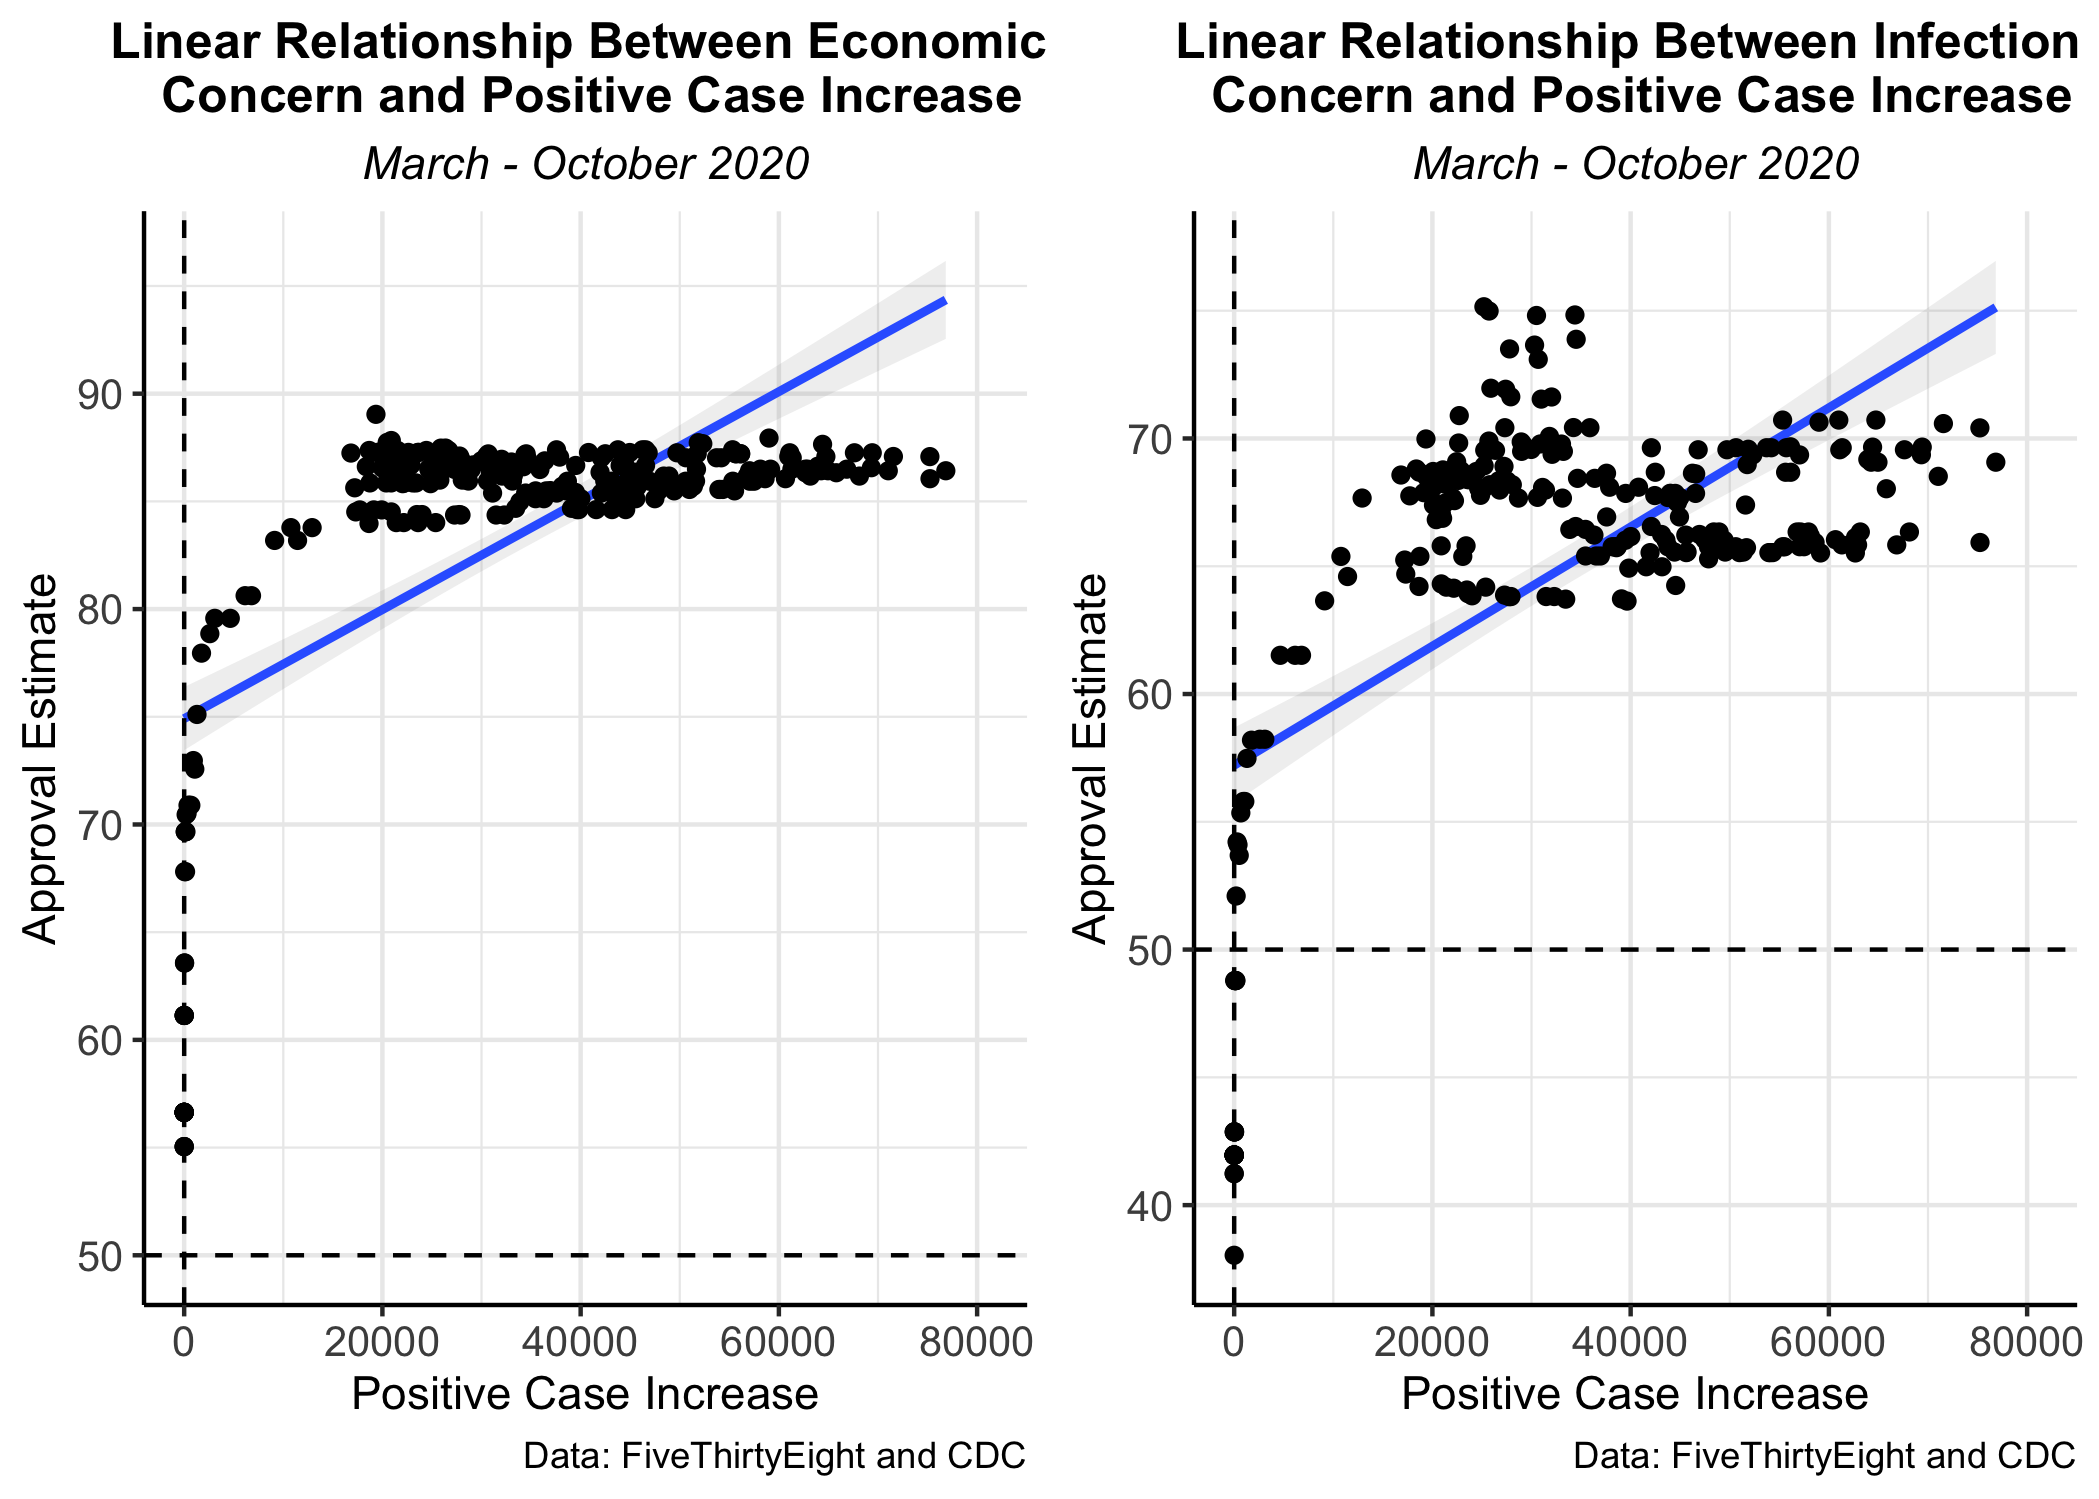
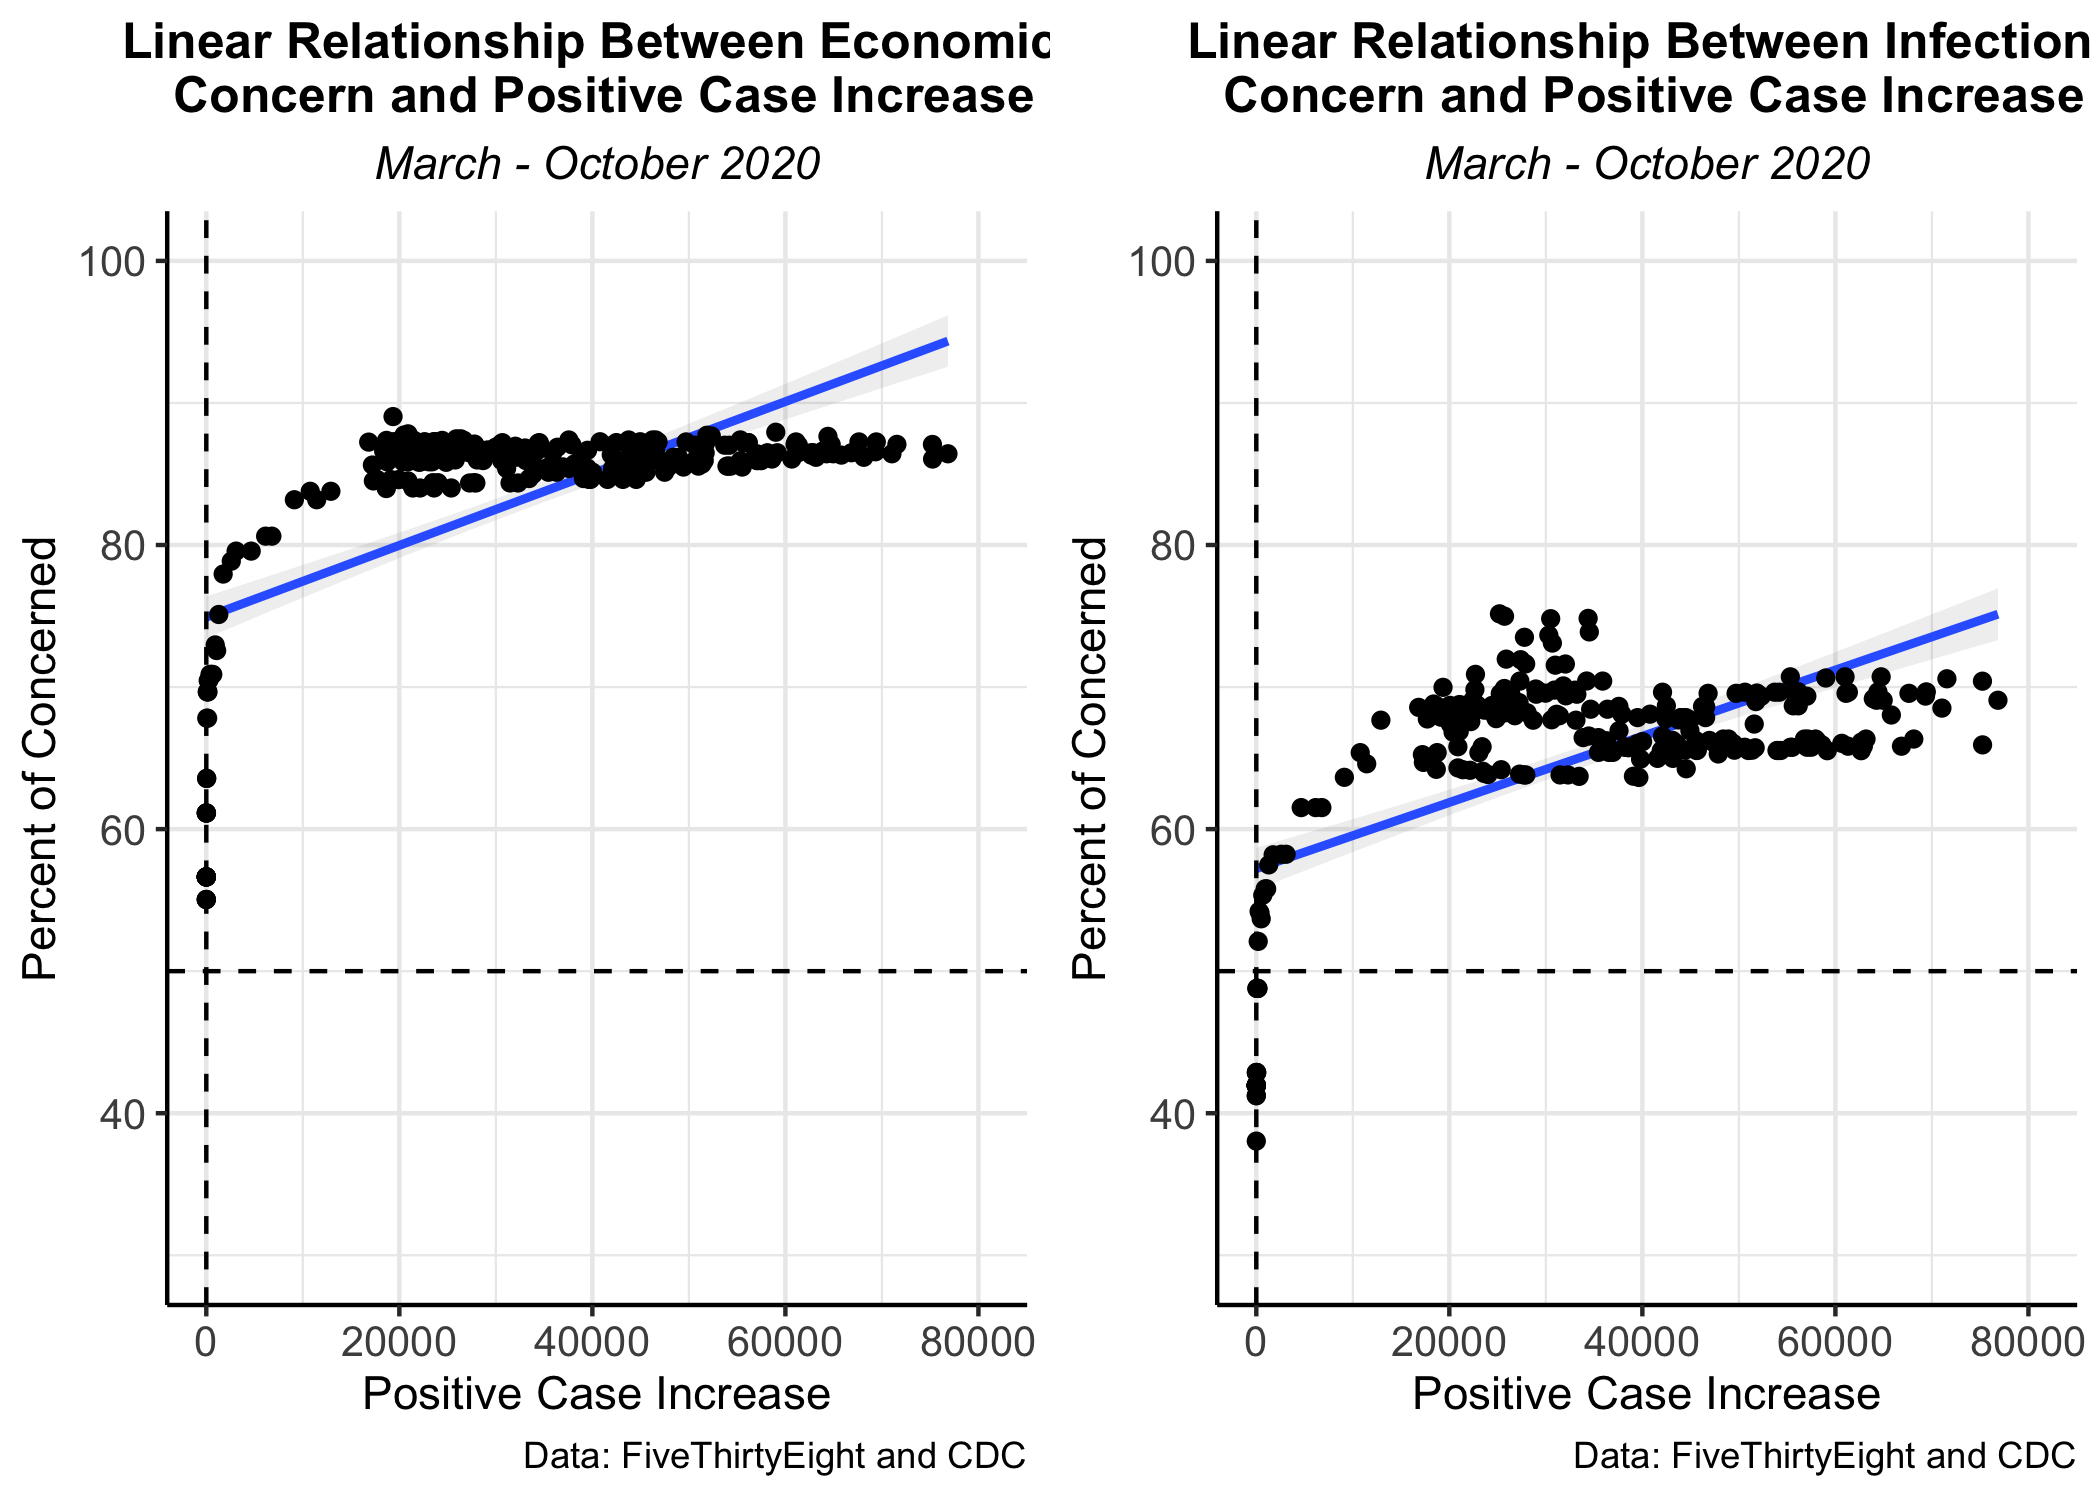
pics

diff --git a/scripts/blog_7.html b/scripts/blog_7.html
@@ -522,7 +522,7 @@ abline(fit_pos_inc)</code></pre>
   geom_hline(yintercept=50, lty=2) +
   geom_vline(xintercept=0.01, lty=2) + # median
   xlab(&quot;Positive Case Increase&quot;) +
-  ylab(&quot;Approval Estimate&quot;) +
+  ylab(&quot;Approval Percentage&quot;) +
   labs(title = &quot;Linear Relationship Between Trump Covid Approval and \n Positive Case Increase&quot;, 
        subtitle = &quot;March - October 2020&quot;, 
        caption = &quot;Data: Covid Tracking Project and CDC&quot;)+
@@ -561,10 +561,11 @@ plot1 &lt;- ggplot(data = con_ec, aes(x= positiveIncrease, y= concern)) +
   geom_smooth(method=&quot;lm&quot;, formula = y ~ x, alpha = 0.15) +
   geom_point() +
   xlim(c(0,81000)) +
+  ylim(c(30, 100)) +
   geom_hline(yintercept=50, lty=2) +
   geom_vline(xintercept=0.01, lty=2) + # median
   xlab(&quot;Positive Case Increase&quot;) +
-  ylab(&quot;Approval Estimate&quot;) +
+  ylab(&quot;Percent of Concerned&quot;) +
   labs(title = &quot;Linear Relationship Between Economic \n Concern and Positive Case Increase&quot;, 
        subtitle = &quot;March - October 2020&quot;, 
        caption = &quot;Data: FiveThirtyEight and CDC&quot;)+
@@ -579,10 +580,11 @@ plot2 &lt;- ggplot(data = con_inf, aes(x= positiveIncrease, y= concern)) +
   geom_smooth(method=&quot;lm&quot;, formula = y ~ x, alpha = 0.15) +
   geom_point() +
   xlim(c(0,81000)) +
+  ylim(c(30, 100)) +
   geom_hline(yintercept=50, lty=2) +
   geom_vline(xintercept=0.01, lty=2) + # median
   xlab(&quot;Positive Case Increase&quot;) +
-  ylab(&quot;Approval Estimate&quot;) +
+  ylab(&quot;Percent of Concerned&quot;) +
   labs(title = &quot;Linear Relationship Between Infection \n Concern and Positive Case Increase&quot;, 
        subtitle = &quot;March - October 2020&quot;, 
        caption = &quot;Data: FiveThirtyEight and CDC&quot;)+
@@ -698,7 +700,7 @@ tab_header(title = md(&quot;**Predict Approval of Trump&#39;s Covid Response in 
   font-family: -apple-system, BlinkMacSystemFont, 'Segoe UI', Roboto, Oxygen, Ubuntu, Cantarell, 'Helvetica Neue', 'Fira Sans', 'Droid Sans', Arial, sans-serif;
 }
 
-#fcibjchdzo .gt_table {
+#thwwvzeyzk .gt_table {
   display: table;
   border-collapse: collapse;
   margin-left: auto;
@@ -723,7 +725,7 @@ tab_header(title = md(&quot;**Predict Approval of Trump&#39;s Covid Response in 
   border-left-color: #D3D3D3;
 }
 
-#fcibjchdzo .gt_heading {
+#thwwvzeyzk .gt_heading {
   background-color: #FFFFFF;
   text-align: center;
   border-bottom-color: #FFFFFF;
@@ -735,7 +737,7 @@ tab_header(title = md(&quot;**Predict Approval of Trump&#39;s Covid Response in 
   border-right-color: #D3D3D3;
 }
 
-#fcibjchdzo .gt_title {
+#thwwvzeyzk .gt_title {
   color: #333333;
   font-size: 125%;
   font-weight: initial;
@@ -745,7 +747,7 @@ tab_header(title = md(&quot;**Predict Approval of Trump&#39;s Covid Response in 
   border-bottom-width: 0;
 }
 
-#fcibjchdzo .gt_subtitle {
+#thwwvzeyzk .gt_subtitle {
   color: #333333;
   font-size: 85%;
   font-weight: initial;
@@ -755,13 +757,13 @@ tab_header(title = md(&quot;**Predict Approval of Trump&#39;s Covid Response in 
   border-top-width: 0;
 }
 
-#fcibjchdzo .gt_bottom_border {
+#thwwvzeyzk .gt_bottom_border {
   border-bottom-style: solid;
   border-bottom-width: 2px;
   border-bottom-color: #D3D3D3;
 }
 
-#fcibjchdzo .gt_col_headings {
+#thwwvzeyzk .gt_col_headings {
   border-top-style: solid;
   border-top-width: 2px;
   border-top-color: #D3D3D3;
@@ -776,7 +778,7 @@ tab_header(title = md(&quot;**Predict Approval of Trump&#39;s Covid Response in 
   border-right-color: #D3D3D3;
 }
 
-#fcibjchdzo .gt_col_heading {
+#thwwvzeyzk .gt_col_heading {
   color: #333333;
   background-color: #FFFFFF;
   font-size: 100%;
@@ -796,7 +798,7 @@ tab_header(title = md(&quot;**Predict Approval of Trump&#39;s Covid Response in 
   overflow-x: hidden;
 }
 
-#fcibjchdzo .gt_column_spanner_outer {
+#thwwvzeyzk .gt_column_spanner_outer {
   color: #333333;
   background-color: #FFFFFF;
   font-size: 100%;
@@ -808,15 +810,15 @@ tab_header(title = md(&quot;**Predict Approval of Trump&#39;s Covid Response in 
   padding-right: 4px;
 }
 
-#fcibjchdzo .gt_column_spanner_outer:first-child {
+#thwwvzeyzk .gt_column_spanner_outer:first-child {
   padding-left: 0;
 }
 
-#fcibjchdzo .gt_column_spanner_outer:last-child {
+#thwwvzeyzk .gt_column_spanner_outer:last-child {
   padding-right: 0;
 }
 
-#fcibjchdzo .gt_column_spanner {
+#thwwvzeyzk .gt_column_spanner {
   border-bottom-style: solid;
   border-bottom-width: 2px;
   border-bottom-color: #D3D3D3;
@@ -828,7 +830,7 @@ tab_header(title = md(&quot;**Predict Approval of Trump&#39;s Covid Response in 
   width: 100%;
 }
 
-#fcibjchdzo .gt_group_heading {
+#thwwvzeyzk .gt_group_heading {
   padding: 8px;
   color: #333333;
   background-color: #FFFFFF;
@@ -850,7 +852,7 @@ tab_header(title = md(&quot;**Predict Approval of Trump&#39;s Covid Response in 
   vertical-align: middle;
 }
 
-#fcibjchdzo .gt_empty_group_heading {
+#thwwvzeyzk .gt_empty_group_heading {
   padding: 0.5px;
   color: #333333;
   background-color: #FFFFFF;
@@ -865,15 +867,15 @@ tab_header(title = md(&quot;**Predict Approval of Trump&#39;s Covid Response in 
   vertical-align: middle;
 }
 
-#fcibjchdzo .gt_from_md > :first-child {
+#thwwvzeyzk .gt_from_md > :first-child {
   margin-top: 0;
 }
 
-#fcibjchdzo .gt_from_md > :last-child {
+#thwwvzeyzk .gt_from_md > :last-child {
   margin-bottom: 0;
 }
 
-#fcibjchdzo .gt_row {
+#thwwvzeyzk .gt_row {
   padding-top: 8px;
   padding-bottom: 8px;
   padding-left: 5px;
@@ -892,7 +894,7 @@ tab_header(title = md(&quot;**Predict Approval of Trump&#39;s Covid Response in 
   overflow-x: hidden;
 }
 
-#fcibjchdzo .gt_stub {
+#thwwvzeyzk .gt_stub {
   color: #333333;
   background-color: #FFFFFF;
   font-size: 100%;
@@ -904,7 +906,7 @@ tab_header(title = md(&quot;**Predict Approval of Trump&#39;s Covid Response in 
   padding-left: 12px;
 }
 
-#fcibjchdzo .gt_summary_row {
+#thwwvzeyzk .gt_summary_row {
   color: #333333;
   background-color: #FFFFFF;
   text-transform: inherit;
@@ -914,7 +916,7 @@ tab_header(title = md(&quot;**Predict Approval of Trump&#39;s Covid Response in 
   padding-right: 5px;
 }
 
-#fcibjchdzo .gt_first_summary_row {
+#thwwvzeyzk .gt_first_summary_row {
   padding-top: 8px;
   padding-bottom: 8px;
   padding-left: 5px;
@@ -924,7 +926,7 @@ tab_header(title = md(&quot;**Predict Approval of Trump&#39;s Covid Response in 
   border-top-color: #D3D3D3;
 }
 
-#fcibjchdzo .gt_grand_summary_row {
+#thwwvzeyzk .gt_grand_summary_row {
   color: #333333;
   background-color: #FFFFFF;
   text-transform: inherit;
@@ -934,7 +936,7 @@ tab_header(title = md(&quot;**Predict Approval of Trump&#39;s Covid Response in 
   padding-right: 5px;
 }
 
-#fcibjchdzo .gt_first_grand_summary_row {
+#thwwvzeyzk .gt_first_grand_summary_row {
   padding-top: 8px;
   padding-bottom: 8px;
   padding-left: 5px;
@@ -944,11 +946,11 @@ tab_header(title = md(&quot;**Predict Approval of Trump&#39;s Covid Response in 
   border-top-color: #D3D3D3;
 }
 
-#fcibjchdzo .gt_striped {
+#thwwvzeyzk .gt_striped {
   background-color: rgba(128, 128, 128, 0.05);
 }
 
-#fcibjchdzo .gt_table_body {
+#thwwvzeyzk .gt_table_body {
   border-top-style: solid;
   border-top-width: 2px;
   border-top-color: #D3D3D3;
@@ -957,7 +959,7 @@ tab_header(title = md(&quot;**Predict Approval of Trump&#39;s Covid Response in 
   border-bottom-color: #D3D3D3;
 }
 
-#fcibjchdzo .gt_footnotes {
+#thwwvzeyzk .gt_footnotes {
   color: #333333;
   background-color: #FFFFFF;
   border-bottom-style: none;
@@ -971,13 +973,13 @@ tab_header(title = md(&quot;**Predict Approval of Trump&#39;s Covid Response in 
   border-right-color: #D3D3D3;
 }
 
-#fcibjchdzo .gt_footnote {
+#thwwvzeyzk .gt_footnote {
   margin: 0px;
   font-size: 90%;
   padding: 4px;
 }
 
-#fcibjchdzo .gt_sourcenotes {
+#thwwvzeyzk .gt_sourcenotes {
   color: #333333;
   background-color: #FFFFFF;
   border-bottom-style: none;
@@ -991,46 +993,46 @@ tab_header(title = md(&quot;**Predict Approval of Trump&#39;s Covid Response in 
   border-right-color: #D3D3D3;
 }
 
-#fcibjchdzo .gt_sourcenote {
+#thwwvzeyzk .gt_sourcenote {
   font-size: 90%;
   padding: 4px;
 }
 
-#fcibjchdzo .gt_left {
+#thwwvzeyzk .gt_left {
   text-align: left;
 }
 
-#fcibjchdzo .gt_center {
+#thwwvzeyzk .gt_center {
   text-align: center;
 }
 
-#fcibjchdzo .gt_right {
+#thwwvzeyzk .gt_right {
   text-align: right;
   font-variant-numeric: tabular-nums;
 }
 
-#fcibjchdzo .gt_font_normal {
+#thwwvzeyzk .gt_font_normal {
   font-weight: normal;
 }
 
-#fcibjchdzo .gt_font_bold {
+#thwwvzeyzk .gt_font_bold {
   font-weight: bold;
 }
 
-#fcibjchdzo .gt_font_italic {
+#thwwvzeyzk .gt_font_italic {
   font-style: italic;
 }
 
-#fcibjchdzo .gt_super {
+#thwwvzeyzk .gt_super {
   font-size: 65%;
 }
 
-#fcibjchdzo .gt_footnote_marks {
+#thwwvzeyzk .gt_footnote_marks {
   font-style: italic;
   font-size: 65%;
 }
 </style>
-<div id="fcibjchdzo" style="overflow-x:auto;overflow-y:auto;width:auto;height:auto;"><table class="gt_table">
+<div id="thwwvzeyzk" style="overflow-x:auto;overflow-y:auto;width:auto;height:auto;"><table class="gt_table">
   <thead class="gt_header">
     <tr>
       <th colspan="2" class="gt_heading gt_title gt_font_normal" style><strong>Predict Approval of Trump's Covid Response in Battle Ground States</strong></th>
